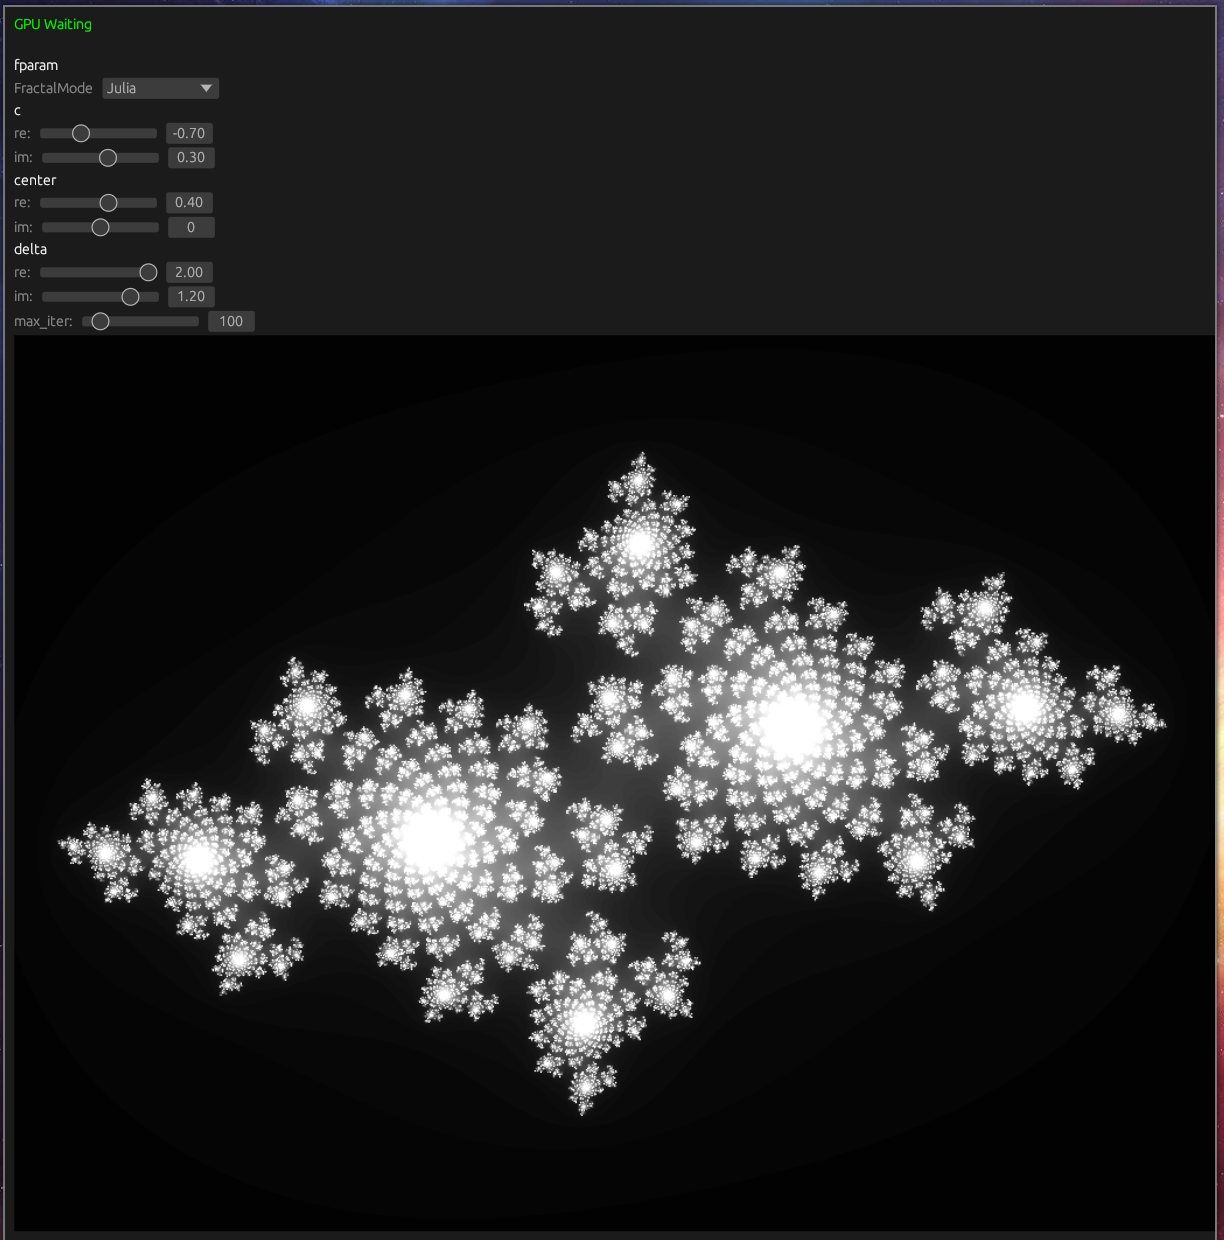
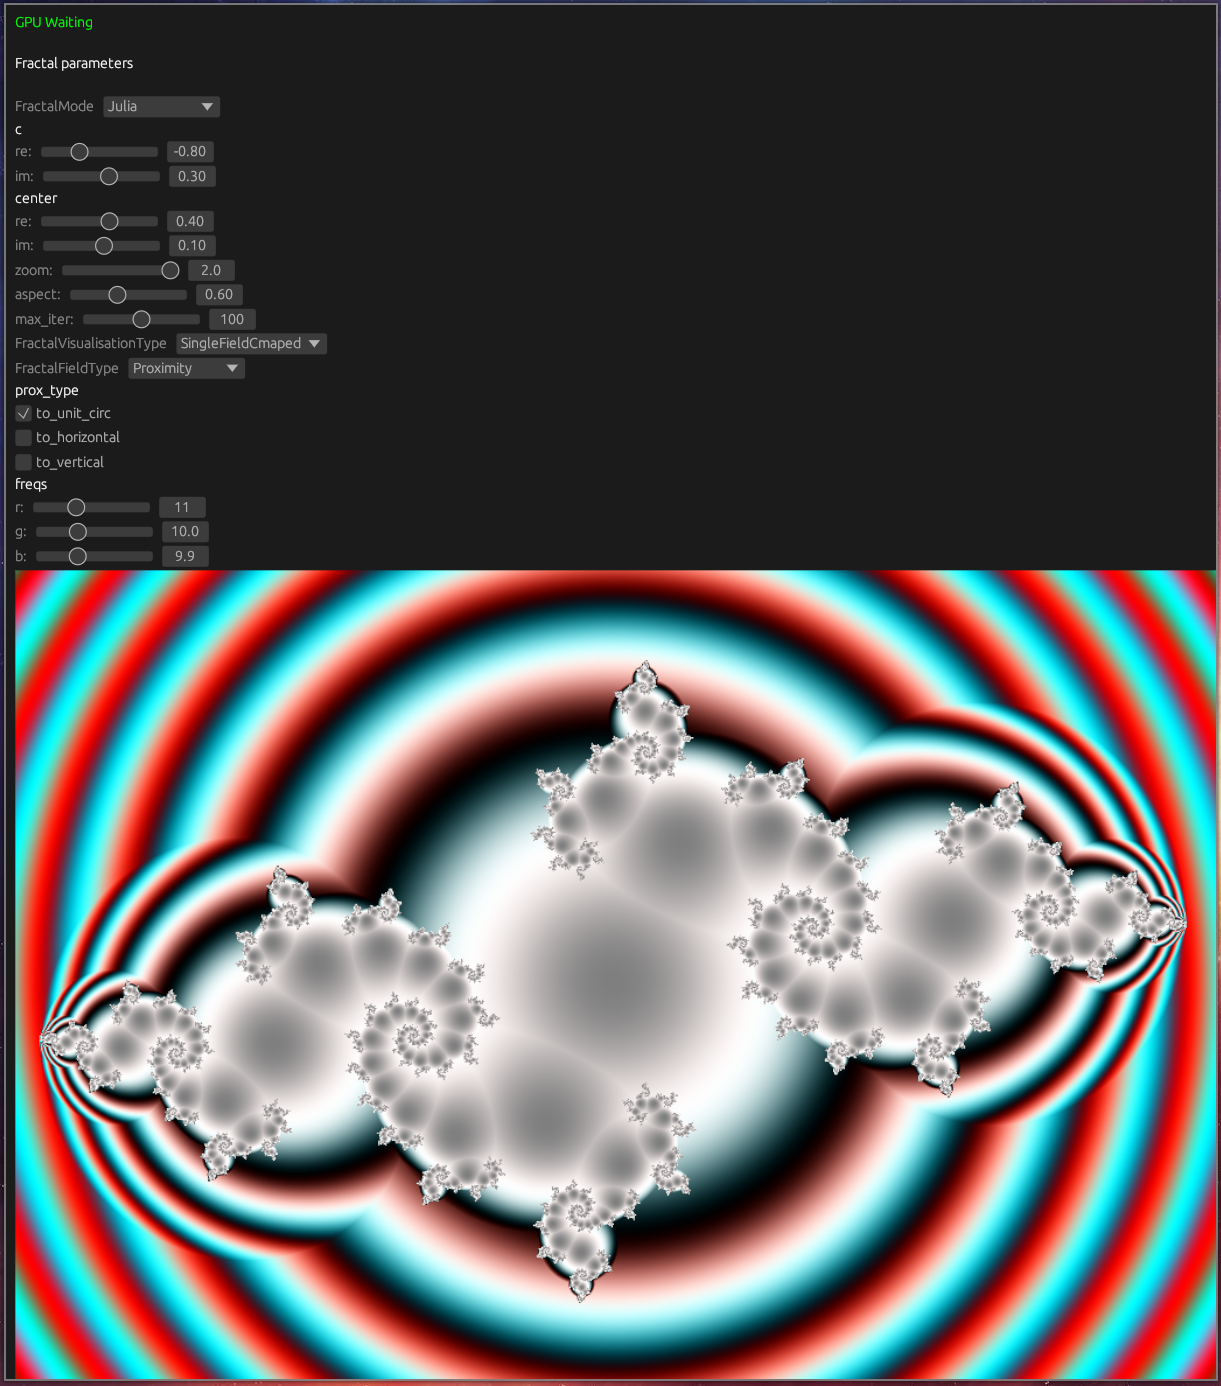
touch ups

diff --git a/src/main.rs b/src/main.rs
@@ -37,8 +37,8 @@ impl FractalMode {
 #[derive(EguiInspect, Clone, PartialEq)]
 struct SFParamUI {
     mode: FractalMode,
-    center: Complex,
-    #[inspect(log_slider, min = 1e-19, max = 1.0)]
+    view_center: Complex,
+    #[inspect(log_slider, min = 1e-19, max = 2.0)]
     zoom: f64,
     #[inspect(log_slider, min = 0.1, max = 10.0)]
     aspect: f64,
@@ -50,7 +50,7 @@ impl Default for SFParamUI {
     fn default() -> Self {
         Self {
             max_iter: 100,
-            center: Complex { re: -0.4, im: 0.0 },
+            view_center: Complex { re: -0.4, im: 0.0 },
             mode: Default::default(),
             zoom: 1.0,
             aspect: 1.0,
@@ -63,10 +63,10 @@ impl SFParamUI {
         let delta_re = self.zoom;
         let delta_im = self.zoom * self.aspect;
         BBox {
-            left: self.center.re - delta_re,
-            right: self.center.re + delta_re,
-            bot: self.center.im - delta_im,
-            top: self.center.im + delta_im,
+            left: self.view_center.re - delta_re,
+            right: self.view_center.re + delta_re,
+            bot: self.view_center.im - delta_im,
+            top: self.view_center.im + delta_im,
         }
     }
 
@@ -252,14 +252,17 @@ impl Default for FractalVisualisationType {
 
 #[derive(Clone, Default, PartialEq, EguiInspect)]
 struct FractalParams {
+    #[inspect(name = "Shared")]
     sfparam: SFParamUI,
-    fields: FractalVisualisationType,
+    vis_type: FractalVisualisationType,
 }
 
 type ThreadResult = Result<(), String>;
 
 #[derive(EguiInspect)]
+#[inspect(no_border)]
 struct FractalViewer {
+    #[inspect(name = "Fractal parameters")]
     fp: FractalParams,
     #[inspect(hide)]
     old_fp: FractalParams,
@@ -291,7 +294,10 @@ impl FractalViewer {
         let dims = self.iters_image.mat_dims;
 
         self.join_handle = Some(std::thread::spawn(move || {
-            let FractalParams { sfparam, fields } = frac_param;
+            let FractalParams {
+                sfparam,
+                vis_type: fields,
+            } = frac_param;
             let sfparam_c = sfparam.get_c_struct();
             match helper_arc.try_lock() {
                 Ok(mut guard) => match fields {

diff --git a/src/wrapper_types.rs b/src/wrapper_types.rs
@@ -47,19 +47,19 @@ unsafe impl OclPrm for SFParam {}
 #[derive(Debug, EguiInspect, PartialEq, Clone, Copy)]
 pub struct Freqs {
     #[inspect(log_slider, min = 1.0, max = 1000.0)]
-    pub f1: f64,
+    pub r: f64,
     #[inspect(log_slider, min = 1.0, max = 1000.0)]
-    pub f2: f64,
+    pub g: f64,
     #[inspect(log_slider, min = 1.0, max = 1000.0)]
-    pub f3: f64,
+    pub b: f64,
 }
 
 impl Default for Freqs {
     fn default() -> Self {
         Self {
-            f1: 1.1,
-            f2: 3.3,
-            f3: 9.9,
+            r: 1.1,
+            g: 3.3,
+            b: 9.9,
         }
     }
 }
@@ -67,11 +67,21 @@ impl Default for Freqs {
 unsafe impl OclPrm for Freqs {}
 
 #[repr(C)]
-#[derive(Debug, Default, EguiInspect, PartialEq, Clone, Copy)]
+#[derive(Debug, EguiInspect, PartialEq, Clone, Copy)]
 pub struct ProxType {
     pub to_unit_circ: bool,
     pub to_horizontal: bool,
     pub to_vertical: bool,
+}
+
+impl Default for ProxType {
+    fn default() -> Self {
+        Self {
+            to_unit_circ: true,
+            to_horizontal: false,
+            to_vertical: false,
+        }
+    }
 }
 
 unsafe impl OclPrm for ProxType {}
